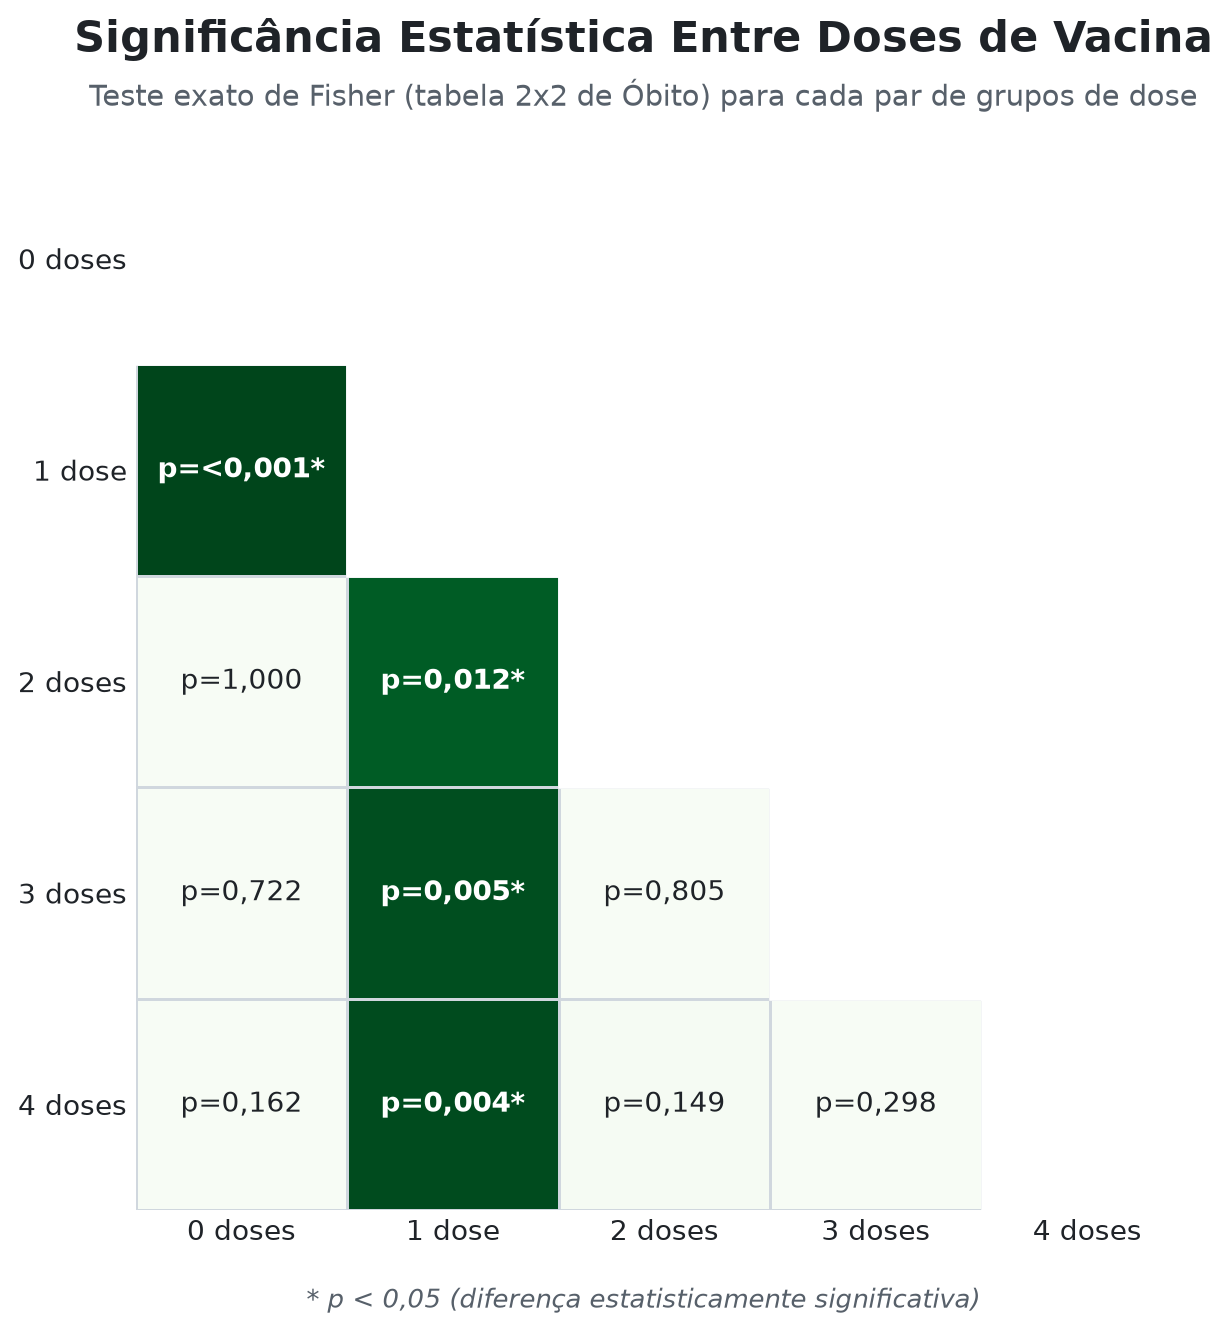
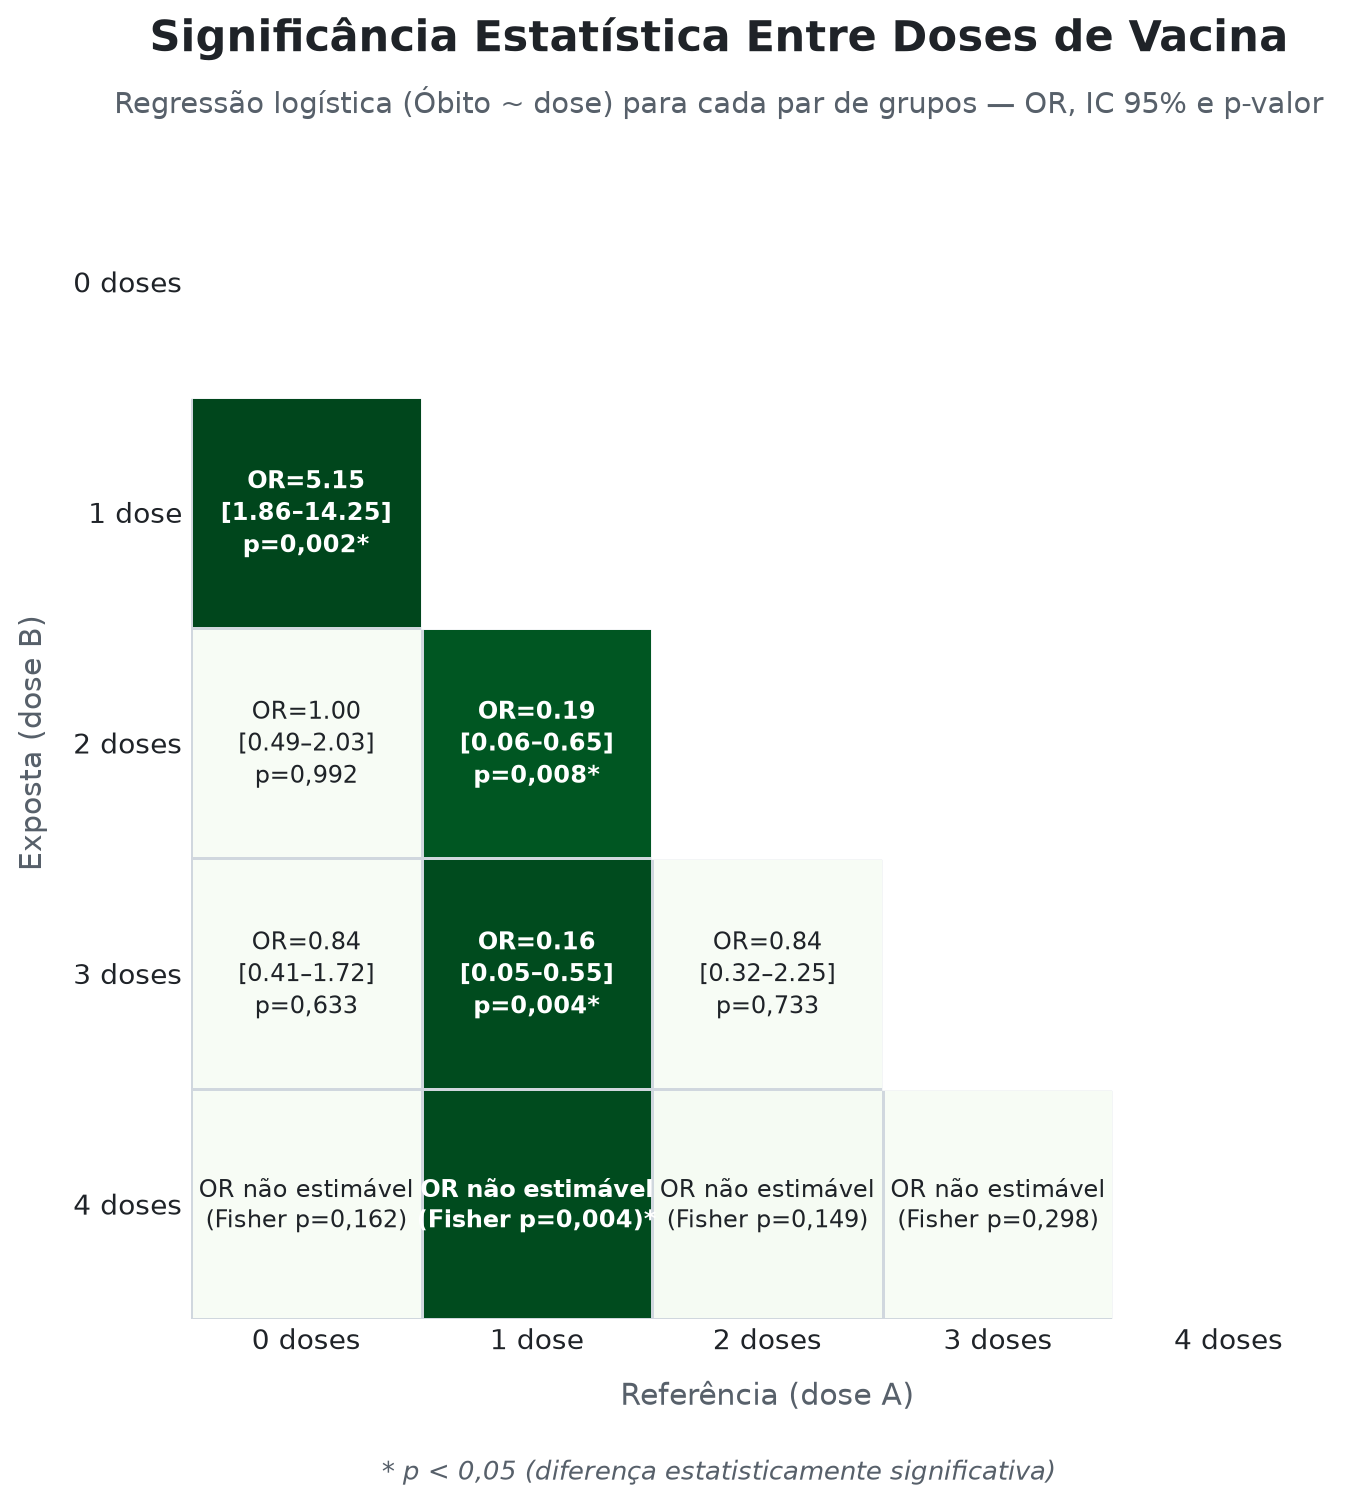
Replace Fisher's exact test with logistic regression in dose significance heatmap
Each pairwise cell now reports OR, 95% CI and p-value from a binomial
GLM (Óbito ~ dose), matching the modeling approach used in the dose
forest plots (scripts 12/13), instead of a bare Fisher's exact p-value.
Falls back to Fisher's exact only for pairs with quasi-complete
separation (e.g. the 4-dose group, 0 events), where the logistic
regression p-value is unreliable (p≈1) despite a real association.

Claude-Session: https://claude.ai/code/session_01XH5oXC7ooCrnQVbPhtjYiY

diff --git a/24_significancia_entre_doses.py b/24_significancia_entre_doses.py
@@ -1,16 +1,21 @@
 import os
+import warnings
 from itertools import combinations
 
 import numpy as np
 import pandas as pd
 import matplotlib.pyplot as plt
-from matplotlib.colors import LinearSegmentedColormap
+import statsmodels.api as sm
+import statsmodels.formula.api as smf
 from scipy.stats import fisher_exact
+
+warnings.filterwarnings("ignore")
 
 # ─────────────────────────────────────────────────────────────────────────
 # Significância estatística ENTRE todas as combinações de número de doses
-# (não apenas cada dose vs. referência). Usa o teste exato de Fisher, mais
-# apropriado que o qui-quadrado para tabelas 2x2 com células pequenas.
+# (não apenas cada dose vs. referência). Usa regressão logística (Óbito ~
+# dose), a mesma abordagem dos forest plots de dose (scripts 12/13), em vez
+# do teste exato de Fisher: cada par produz OR, IC 95% e p-valor.
 # ─────────────────────────────────────────────────────────────────────────
 XLSX_PATH = "703pacientes.xlsx"
 OUTPUT_PNG = os.path.join(os.path.dirname(os.path.abspath(__file__)),
@@ -24,8 +29,14 @@ TEXT = "#1F2328"
 SUBTEXT = "#57606A"
 BORDER = "#D0D7DE"
 
+
+def formata_p(p):
+    return "<0,001" if p < 0.001 else f"{p:.3f}".replace(".", ",")
+
+
 # ════════════════════════════════════════════════════════════
 # 1. CARREGAR DADOS E CALCULAR TODAS AS COMPARAÇÕES PAREADAS
+#    (regressão logística: Óbito ~ dose, referência = dose A)
 # ════════════════════════════════════════════════════════════
 dados = pd.read_excel(XLSX_PATH)
 tab = pd.crosstab(dados["Vacinas"], dados["Óbito"]).reindex(
@@ -35,58 +46,84 @@ doses = sorted(DOSE_LABELS)
 
 resultados = []
 matriz_p = pd.DataFrame(np.nan, index=doses, columns=doses)
+matriz_or = pd.DataFrame(np.nan, index=doses, columns=doses)
+matriz_texto = pd.DataFrame("", index=doses, columns=doses)
+
 for a, b in combinations(doses, 2):
-    sub = tab.loc[[a, b]]
-    odds, p = fisher_exact(sub)
-    matriz_p.loc[a, b] = p
+    sub = dados[dados["Vacinas"].isin([a, b])].copy()
+    sub["Exposta"] = (sub["Vacinas"] == b).astype(int)
+
+    n_a, obitos_a = len(sub[sub["Vacinas"] == a]), int(sub.loc[sub["Vacinas"] == a, "Óbito"].sum())
+    n_b, obitos_b = len(sub[sub["Vacinas"] == b]), int(sub.loc[sub["Vacinas"] == b, "Óbito"].sum())
+
+    try:
+        modelo = smf.glm("Óbito ~ Exposta", data=sub,
+                          family=sm.families.Binomial()).fit()
+        beta = modelo.params["Exposta"]
+        p = modelo.pvalues["Exposta"]
+        lo, hi = modelo.conf_int().loc["Exposta"]
+        odds, odds_lo, odds_hi = np.exp(beta), np.exp(lo), np.exp(hi)
+        estimavel = np.isfinite(odds) and odds > 1e-6
+    except Exception:
+        odds = odds_lo = odds_hi = p = np.nan
+        estimavel = False
+
+    if not estimavel:
+        # Separação quase completa (ex.: grupo com 0 óbitos) deixa a
+        # regressão logística instável (p≈1 não confiável). Nesses casos,
+        # usa-se o teste exato de Fisher só para o p-valor/significância.
+        tab_par = pd.crosstab(sub["Vacinas"], sub["Óbito"])
+        _, p = fisher_exact(tab_par)
+        matriz_texto.loc[b, a] = f"OR não estimável\n(Fisher p={formata_p(p)})"
+    else:
+        hi_str = f"{min(odds_hi, 999):.2f}" if np.isfinite(odds_hi) else "∞"
+        matriz_texto.loc[b, a] = (f"OR={odds:.2f}\n[{odds_lo:.2f}–{hi_str}]\n"
+                                   f"p={formata_p(p)}")
+
     matriz_p.loc[b, a] = p
+    matriz_or.loc[b, a] = odds
+
     resultados.append({
-        "Dose A": DOSE_LABELS[a], "Dose B": DOSE_LABELS[b],
-        "OR (Fisher)": odds, "p-valor": p,
-        "n A": int(tab.loc[a].sum()), "n B": int(tab.loc[b].sum()),
+        "Dose A (ref.)": DOSE_LABELS[a], "Dose B": DOSE_LABELS[b],
+        "n A": n_a, "óbitos A": obitos_a, "n B": n_b, "óbitos B": obitos_b,
+        "OR": odds, "IC 95% inf": odds_lo, "IC 95% sup": odds_hi, "p-valor": p,
     })
 
 df_resultados = pd.DataFrame(resultados)
 df_resultados["Significativo (p<0,05)"] = df_resultados["p-valor"] < 0.05
 
-print("=" * 90)
-print("Comparações pareadas entre doses (teste exato de Fisher, tabela 2x2 de Óbito)")
+print("=" * 100)
+print("Comparações pareadas entre doses (regressão logística: Óbito ~ dose)")
 print(df_resultados.to_string(index=False))
-print("=" * 90)
-
-
-def formata_p(p):
-    return "<0,001" if p < 0.001 else f"{p:.3f}".replace(".", ",")
-
+print("=" * 100)
 
 # ════════════════════════════════════════════════════════════
 # 2. HEATMAP DA MATRIZ DE P-VALORES (triângulo inferior)
 # ════════════════════════════════════════════════════════════
-fig, ax = plt.subplots(figsize=(8.5, 7.5), facecolor=BG)
+fig, ax = plt.subplots(figsize=(9.5, 8.5), facecolor=BG)
 
 n = len(doses)
-cmap = LinearSegmentedColormap.from_list(
-    "sig", ["#1D9E75", "#E8EDF2", "#E8EDF2"])  # verde forte perto de 0
-
-# Máscara: mostra apenas o triângulo inferior (evita duplicar cada par)
 display_vals = matriz_p.values.copy()
 mask = np.triu(np.ones_like(display_vals, dtype=bool), k=0)
 display_vals_masked = np.ma.array(display_vals, mask=mask)
 
-im = ax.imshow(display_vals_masked, cmap="Greens_r", vmin=0, vmax=0.15,
-               aspect="equal")
+ax.imshow(display_vals_masked, cmap="Greens_r", vmin=0, vmax=0.15, aspect="equal")
 
 for i in range(n):
     for j in range(n):
         if i <= j:
             continue
         p = matriz_p.iloc[i, j]
+        if np.isnan(p):
+            continue
         sig = p < 0.05
-        cor_txt = "white" if p < 0.05 else TEXT
+        cor_txt = "white" if sig else TEXT
         peso = "bold" if sig else "normal"
-        marca = "*" if sig else ""
-        ax.text(j, i, f"p={formata_p(p)}{marca}", ha="center", va="center",
-                color=cor_txt, fontsize=11, fontweight=peso)
+        texto = matriz_texto.iloc[i, j]
+        if sig:
+            texto += "*"
+        ax.text(j, i, texto, ha="center", va="center",
+                color=cor_txt, fontsize=9.5, fontweight=peso, linespacing=1.4)
 
 ax.set_xticks(range(n))
 ax.set_yticks(range(n))
@@ -106,11 +143,14 @@ for i in range(n):
             ax.add_patch(plt.Rectangle((j - 0.5, i - 0.5), 1, 1,
                                         facecolor=BG, edgecolor=BG, zorder=5))
 
+ax.set_xlabel("Referência (dose A)", fontsize=12, color=SUBTEXT, labelpad=10)
+ax.set_ylabel("Exposta (dose B)", fontsize=12, color=SUBTEXT, labelpad=10)
+
 fig.text(0.5, 0.98, "Significância Estatística Entre Doses de Vacina",
           ha="center", va="top", fontsize=17, fontweight="bold", color=TEXT)
 fig.text(0.5, 0.935,
-          "Teste exato de Fisher (tabela 2x2 de Óbito) para cada par de "
-          "grupos de dose",
+          "Regressão logística (Óbito ~ dose) para cada par de grupos — "
+          "OR, IC 95% e p-valor",
           ha="center", va="top", fontsize=11.5, color=SUBTEXT)
 fig.text(0.5, 0.02, "* p < 0,05 (diferença estatisticamente significativa)",
           ha="center", va="bottom", fontsize=10.5, style="italic", color=SUBTEXT)
